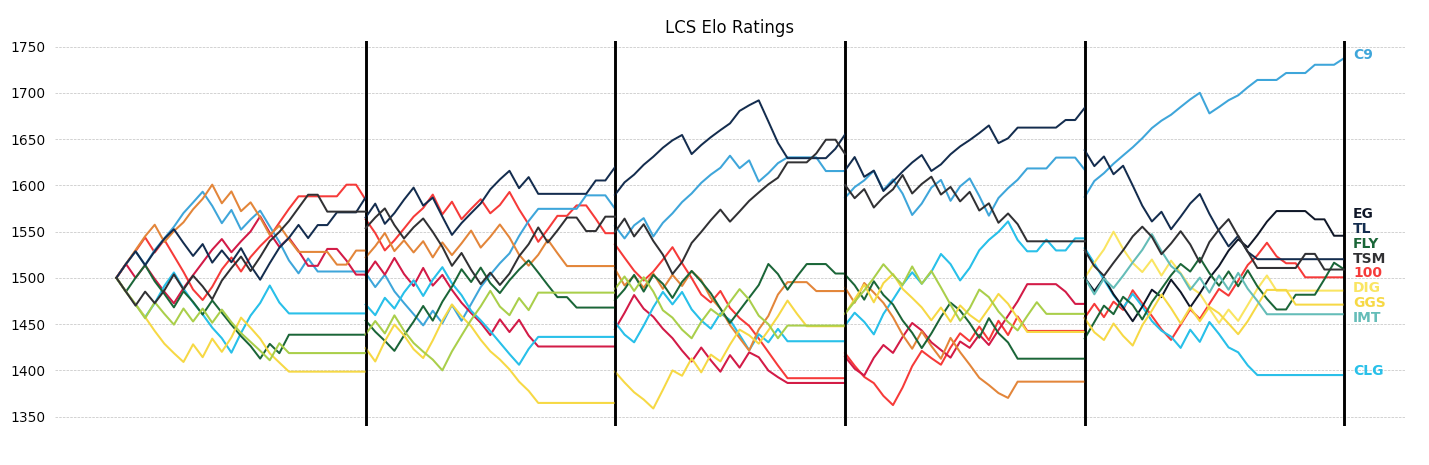
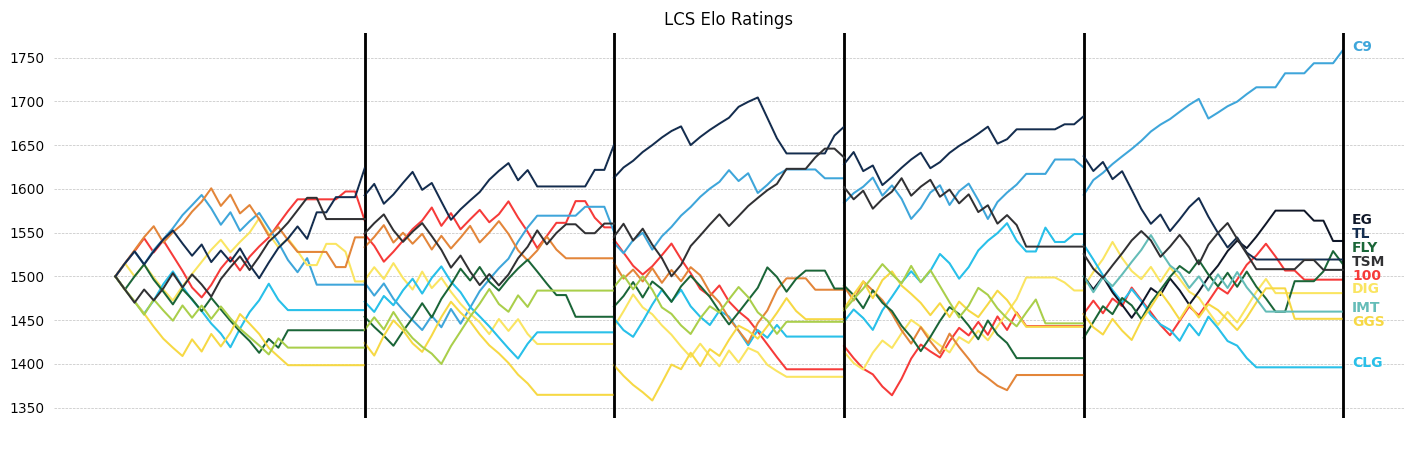
updated LCS and LEC graphs with match score adjustments

diff --git a/src/run_season.py b/src/run_season.py
@@ -1,5 +1,6 @@
 from elo import elo
 from get_league_data import Leaguepedia_DB
+from sys import argv
 
 SEASON_RESET = None
 seasons = {
@@ -82,4 +83,7 @@ def run_pleague(region):
             league.newSeasonReset()
     league.printStats()
 
-run_league("LCK")
+if len(argv) != 2:
+    exit()
+else:
+    run_league(argv[1])

diff --git a/readme.md b/readme.md
@@ -25,16 +25,16 @@ The model currently has data going back to the beginning of franchising for the 
 
 ```
 LCS Elo Ratings
-   C9  1737
-   EG  1545
-   TL  1520
-  FLY  1509
-  TSM  1508
-  100  1500
-  DIG  1486
-  GGS  1471
-  IMT  1460
-  CLG  1394
+   C9  1758
+   EG  1540
+   TL  1519
+  FLY  1514
+  TSM  1507
+  100  1496
+  DIG  1480
+  IMT  1459
+  GGS  1451
+  CLG  1396
 ```
 
 ## LEC Predictions
@@ -45,16 +45,16 @@ The model is currently using data that goes back to Spring 2018. The plot below 
 
 ```
 LEC Elo Ratings
-   G2  1718
-  FNC  1649
-   OG  1565
-  MAD  1553
-  S04  1482
-  MSF  1481
-  RGE  1475
-   XL  1417
-   SK  1392
-  VIT  1361
+   G2  1750
+  FNC  1662
+   OG  1564
+  MAD  1548
+  RGE  1484
+  S04  1483
+  MSF  1480
+   XL  1420
+   SK  1394
+  VIT  1360
 ```
 
 ## LCK Predictions
